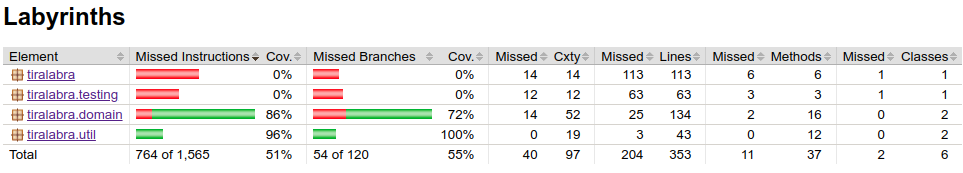
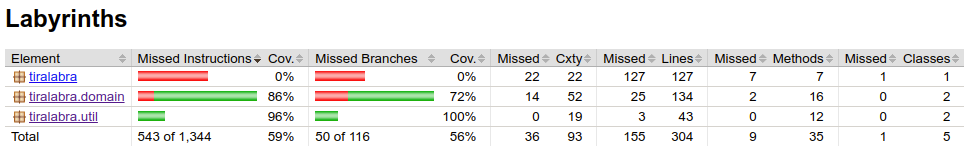
Add options for verbosity, exclude testeer from jacoco test coverage

Changed region(s): [[0.0, 0.2767, 1.0, 0.9308], [0.0, 0.0252, 0.1558, 0.2013]]

diff --git a/Labyrinths/src/main/java/tiralabra/Main.java b/Labyrinths/src/main/java/tiralabra/Main.java
@@ -18,6 +18,7 @@ public class Main {
      */
     public static void main(String[] args) {
         Tester testeri = new Tester();
+        int verbosity = 1;
         
         Scanner reader = new Scanner(System.in);
         System.out.println("Welcome! Here you can test out the Sidewinder algorithm"
@@ -25,35 +26,47 @@ public class Main {
         while (true) {            
         
             System.out.println("\n============  Main Menu  ============");
-            System.out.println("Please type one of the following:");
+            printIfVerbose("Please type one of the following:", verbosity);
             System.out.println("          S : Run the sidewinder algorithm");
             System.out.println("          W : Run Wilson's algorithm");
             System.out.println("    SW | WS : Run both algorithms");
             System.out.println("          T : Run performance tests for both algorithms");
             System.out.println("         TL : Run limited performance tests");
+            if (verbosity == 0) {
+                System.out.println("          V : Change verbosity to more verbose");
+            } else {
+                System.out.println("          V : Change verbosity to minimal");
+            }
             System.out.println("<empty> | q : Quit the program");
             System.out.println("=====================================");
             
             try {
                 String input = String.valueOf(reader.nextLine());
                 if (input.equalsIgnoreCase("S")) {
-                    execSidewinder();
+                    execSidewinder(verbosity);
                 } else if (input.equalsIgnoreCase("W")) {
-                    execWilsons();
+                    execWilsons(verbosity);
                 } else if (input.equalsIgnoreCase("SW") || input.equalsIgnoreCase("WS")) {
-                    execDouble();
+                    execDouble(verbosity);
                 
                 // Improve to produce charts    
                 } else if (input.equalsIgnoreCase("T")) {
-                    System.out.println("Executing performance tests for the algorithms");
-                    execTests(15);                    
+                    printIfVerbose("Executing performance tests for the algorithms", verbosity);
+                    execTests(15, verbosity);                    
                 } else if (input.equalsIgnoreCase("TL")) {
-                    System.out.println("Executing limited performance tests for the algorithms");
-                    execTests(10);                    
+                    printIfVerbose("Executing limited performance tests for the algorithms", 
+                            verbosity);
+                    execTests(10, verbosity);                    
                 } else if (input.equalsIgnoreCase("q") || input.equals("")) {
                     System.out.println("Quitting ... ");
                     System.out.println("Thank you for using the program!");
                     break;
+                } else if (input.equalsIgnoreCase("V")) {
+                    if (verbosity == 0) {
+                        verbosity = 1;
+                    } else {
+                        verbosity = 0;
+                    }
                 } else {
                     System.out.println("Unknown input, try again");
                 }
@@ -67,19 +80,24 @@ public class Main {
     
     /**
      * Executes the sidewinder algorithm for a labyrinth of specified size
+     * 
+     * @param verbosity Amount of output, 0 for minimal, 1 for max
      */
-    public static void execSidewinder() {
+    public static void execSidewinder(int verbosity) {
         Scanner reader = new Scanner(System.in);
-        System.out.println("Please specify the span (NxN) of"
+        System.out.println("Enter the span (NxN) of"
                 + " the maze as an integer");
         try {
             int span = Integer.valueOf(reader.nextLine());                    
         
             Labyrinth swlab = new Labyrinth(span);
-            System.out.println("Printing out the labyrinth format:\n");
-            swlab.printLabyrinth();
-
-            System.out.println("\n=====================================\n");
+            
+            
+            printIfVerbose("Printing out the labyrinth format:\n", verbosity);
+            if (verbosity == 1) {
+                swlab.printLabyrinth();
+            }
+            printIfVerbose("\n=====================================\n", verbosity);
 
             long startmilli = System.currentTimeMillis();
             long start = System.nanoTime();
@@ -105,18 +123,20 @@ public class Main {
     /**
      * Executes Wilson's algorithm for a labyrinth of specified size
      */
-    public static void execWilsons() {
+    public static void execWilsons(int verbosity) {
         Scanner reader = new Scanner(System.in);
-        System.out.println("Please specify the span (NxN) of"
+        System.out.println("Enter the span (NxN) of"
                 + " the maze as an integer");
         try {
             int span = Integer.valueOf(reader.nextLine());                    
  
             Labyrinth walab = new Labyrinth(span);
-            System.out.println("Printing out the labyrinth format:\n");
-            walab.printLabyrinth();
+            printIfVerbose("Printing out the labyrinth format:\n", verbosity);
+            if (verbosity == 1) {
+                walab.printLabyrinth();
+            }
 
-            System.out.println("\n=====================================\n");
+            printIfVerbose("\n=====================================\n", verbosity);
 
             long startmilli = System.currentTimeMillis();
             long start = System.nanoTime();
@@ -142,27 +162,29 @@ public class Main {
     /**
      * Executes the sidewinder and Wilson's algorithm for a labyrinth of specified size
      */
-    public static void execDouble() {
+    public static void execDouble(int verbosity) {
         Scanner reader = new Scanner(System.in);
-        System.out.println("Please specify the span (NxN) of"
+        System.out.println("Enter the span (NxN) of"
                 + " the maze as an integer");
         try {
             int span = Integer.valueOf(reader.nextLine());                    
         
             Labyrinth swlab = new Labyrinth(span);
-            System.out.println("Printing out the labyrinth format:\n");
-            swlab.printLabyrinth();
+            printIfVerbose("Printing out the labyrinth format:\n", verbosity);
+            
+            if (verbosity == 1) {
+                swlab.printLabyrinth();
+            }
 
-            System.out.println("\n==============================\n");
+            printIfVerbose("\n==============================\n", verbosity);
 
             long startmillisw = System.currentTimeMillis();
             long startsw = System.nanoTime();
-
+            
             swlab.sideWinder();
 
-            // System calls 
-            long endsw = System.nanoTime() - startsw;
-            long endmillisw = System.currentTimeMillis() - startmillisw;
+            final long endmillisw = System.currentTimeMillis() - startmillisw;
+            final long endsw = System.nanoTime() - startsw;
 
             System.out.println("Maze after executing sidewinder: ");
 
@@ -191,7 +213,7 @@ public class Main {
             walab.printLabyrinth();
 
             System.out.println("\n=====================================\n"
-                            + String.format("%37s", "Sidewinder") + String.format("%3s" ," vs. ") 
+                            + String.format("%37s", "Sidewinder") + String.format("%3s", " vs. ") 
                             + String.format("%3s","Wilson's"));
             System.out.println("Time taken (nanoseconds) : " + String.format("%-12s", endsw) 
                     + " | " + String.format("%-12s", endwa));
@@ -207,10 +229,20 @@ public class Main {
      * For executing performance tests for the algorithms
      * @param scale Scale of the testing
      */
-    public static void execTests(int scale) {
+    public static void execTests(int scale, int verbosity) {
         Tester labtester = new Tester();
-        labtester.testSidewinder(scale);
-        labtester.testWilsons(scale);        
+        labtester.testSidewinder(scale, verbosity);
+        labtester.testWilsons(scale, verbosity);        
+    }
+    
+    /**
+     * Helper function for printing according to verbosity
+     * @param output String to output (or not)
+     */
+    public static void printIfVerbose(String output, int verbosity) {
+        if (verbosity == 1) {
+            System.out.println(output);
+        }
     }
     
 }

diff --git a/Labyrinths/src/main/java/tiralabra/testing/Tester.java b/Labyrinths/src/main/java/tiralabra/testing/Tester.java
@@ -32,7 +32,7 @@ public class Tester {
      * 
      * @param scale Upper limit of the test cases
      */
-    public void testSidewinder(int scale) { 
+    public void testSidewinder(int scale, int verbosity) { 
         if (scale > this.tests.length) {
             System.out.println("Scale of tests too large, Nullpointers would occur");
             return;
@@ -59,13 +59,20 @@ public class Tester {
             Arrays.sort(timings);
             long avg = timings[timings.length / 2];
             long avgnano = timingsnano[timingsnano.length / 2];
-            System.out.println("Size " + this.tests[i] + " took " + avg 
-                    + " milliseconds to compute");
-            System.out.println("Size " + this.tests[i] + " took " + avgnano 
-                    + " nanoseconds to compute");
-            
-            if (i % 5 == 0) {
-                System.out.println("Timestep " + i + "/" + scale);
+            if (verbosity == 1) {
+                System.out.println("Size " + this.tests[i] + " took " + avg 
+                        + " milliseconds to compute");
+                System.out.println("Size " + this.tests[i] + " took " + avgnano 
+                        + " nanoseconds to compute");
+            } else {
+                System.out.println(this.tests[i] + ": " + avgnano + " ns");
+            }
+            int modn = 5;
+            if (verbosity == 0)  {
+                modn = 10;
+            }
+            if ((i + 1) % modn == 0) {
+                System.out.println("Timestep " + (i + 1) + "/" + scale);
             }
         }
         
@@ -81,7 +88,7 @@ public class Tester {
      * 
      * @param scale Upper limit of the test cases
      */
-    public void testWilsons(int scale) {
+    public void testWilsons(int scale, int verbosity) {
         if (scale > this.tests.length) {
             System.out.println("Scale of tests too large, Nullpointers would occur");
             return;
@@ -109,12 +116,20 @@ public class Tester {
             Arrays.sort(timings);
             long avg = timings[timings.length / 2];
             long avgnano = timingsnano[timingsnano.length / 2];
-            System.out.println("Size " + this.tests[i] + " took " + avg 
-                    + " milliseconds to compute");
-            System.out.println("Size " + this.tests[i] + " took " + avgnano 
-                    + " nanoseconds to compute");
-            if (i % 5 == 0) {
-                System.out.println("Timestep " + i + "/" + scale);
+            if (verbosity == 1) {
+                System.out.println("Size " + this.tests[i] + " took " + avg 
+                        + " milliseconds to compute");
+                System.out.println("Size " + this.tests[i] + " took " + avgnano 
+                        + " nanoseconds to compute");
+            } else {
+                System.out.println(this.tests[i] + ": " + avgnano + " ns");
+            }
+            int modn = 5;
+            if (verbosity == 0)  {
+                modn = 10;
+            }
+            if ((i + 1) % modn == 0) {
+                System.out.println("Timestep " + (i + 1) + "/" + scale);
             }
         }
         

diff --git a/dokumentaatio/toteutusdokumentti.md b/dokumentaatio/toteutusdokumentti.md
@@ -28,3 +28,12 @@ kirjoittamisesta
 ### Algoritmien suoritusvertailu
 
 Algoritmien tehokkuus- ja generointivertailun löydät [erillisestä dokumentista](https://github.com/leopekkas/LabyrinthTest/blob/main/dokumentaatio/algoritmienvertailu.md)
+
+### Työn mahdolliset puutteet ja parannusehdotukset
+
+Ohjelmaa voisi laajentaa etenkin graafisella käyttöliittymällä. Muita laajennusehdotuksia 
+on esim. monisäikeistetyn ratkaisijan implementointi labyrintin generoimiseen, tai 
+labyrintin ratkaisija generoinnin jälkeen.
+
+Puutteena esimerkiksi se, että tällä hetkellä ohjelmassa on mahdollista tehdä vain 
+neliönmuotoisia labyrintteja.
